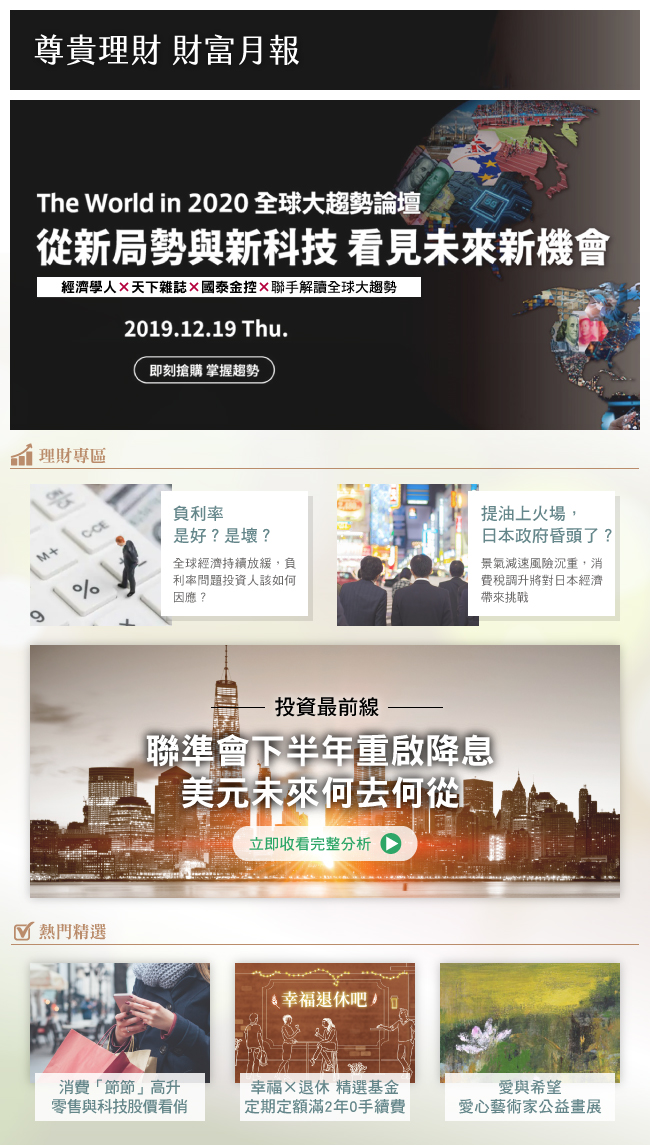
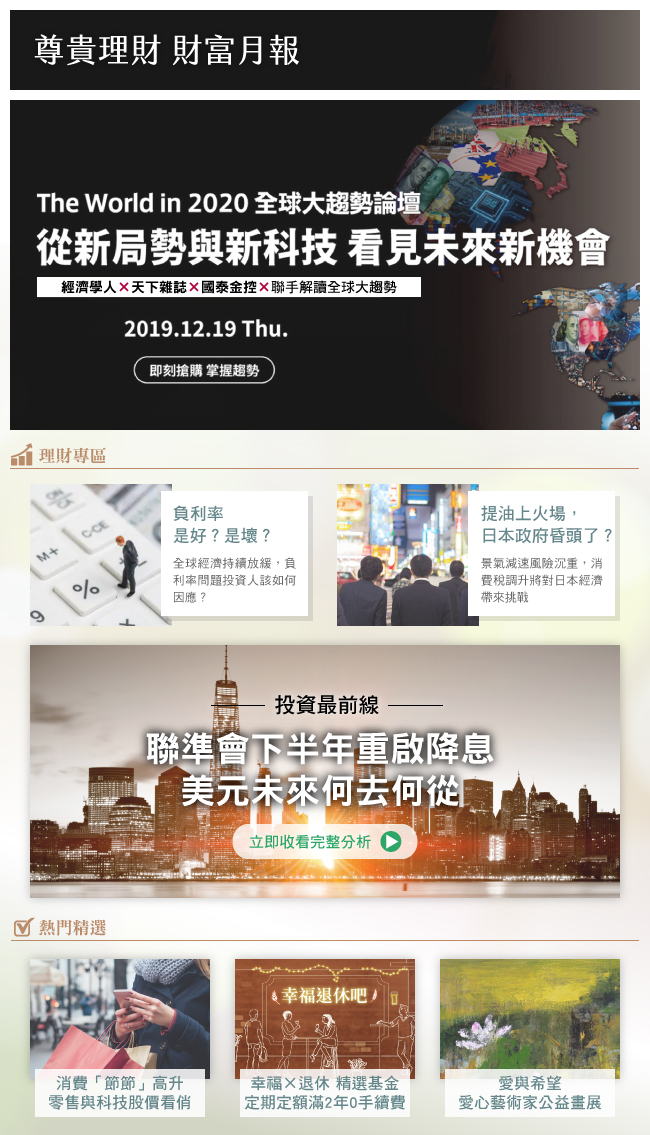
update

diff --git a/monthly-report-201911/index.html b/monthly-report-201911/index.html
@@ -24,7 +24,7 @@
 </style>
 
 <body>
-<p style="display:none;font-size:0;max-height:0;width:0;line-height:0;mso-hide:all">The World in 2020全球大趨勢論壇，2019年列強激烈爭鬥，下一年將走向何方？ | 負利率是好？是壞？ | 提油上火場，日本政府昏頭了嗎？ |【投資最前線】聯準會下半年重啟降息，美元未來何去何從？ | 幸福退休，定期定額兩年$0手續費</p>
+<p style="display:none;font-size:0;max-height:0;width:0;line-height:0;mso-hide:all">The World in 2020全球大趨勢論壇，2019年列強激烈爭鬥，下一年將走向何方？ | 負利率是好？是壞？ | 提油上火場，日本政府昏頭了嗎？ | 【投資最前線】聯準會下半年重啟降息，美元未來何去何從？ | 幸福退休，定期定額兩年$0手續費</p>
 <table width="650" border="0" align="center" cellpadding="10" cellspacing="0">
   <tr>
     <td align="center"><a href="#" target="_blank" class="link_text" style="font-size:14px;">※ 若是您無法正常瀏覽，請點選這裡，直接到網站上讀取</a></td>
@@ -105,13 +105,13 @@
 </table>
 
 <map name="Map">
-  <area shape="rect" coords="10,99,640,430" href="http://bit.ly/2Npn7mp?CUB_SRC=EDM&CUB_CHL1=BAN&CUB_CHL2=01&MA_TK=WS012&CUB_DT=20191110" target="_blank" alt="The World in 2020 全球大趨勢論壇">
-  <area shape="rect" coords="30,484,314,627" href="https://www.cathaybk.com.tw/cathaybk/promo/edm/wealth/product/201911/Wealth01m/index.html?CUB_SRC=EDM&CUB_CHL1=BAN&CUB_CHL2=01&MA_TK=WS012&CUB_DT=20191110" target="_blank" alt="負利率是好？是壞？">
-  <area shape="rect" coords="335,484,621,628" href="https://www.cathaybk.com.tw/cathaybk/promo/edm/wealth/product/201911/Wealth02m/index.html?CUB_SRC=EDM&CUB_CHL1=BAN&CUB_CHL2=01&MA_TK=WS012&CUB_DT=20191110" target="_blank" alt="提油上火場 日本政府昏頭了嗎？">
-  <area shape="rect" coords="28,645,620,900" href="https://youtu.be/0VTlpRxDavI?CUB_SRC=EDM&CUB_CHL1=BAN&CUB_CHL2=01&MA_TK=WS012&CUB_DT=20191110" target="_blank" alt="--投資最前線--聯準會下半年重啟降息，美元未來何去何從">
-  <area shape="rect" coords="29,963,210,1123" href="https://www.cathaybk.com.tw/cathaybk/promo/event/fund/cathayfund/article-pages/market/qa119.html?CUB_SRC=EDM&CUB_CHL1=BAN&CUB_CHL2=01&MA_TK=WS012&CUB_DT=20191110" target="_blank" alt="消費「節節」高升，零售與科技股價看俏">
-  <area shape="rect" coords="235,962,416,1123" href="https://www.cathaybk.com.tw/cathaybk/promo/event/content/financial/Best_Arranged_Retirement/discount/index.html?CUB_SRC=EDM&CUB_CHL1=BAN&CUB_CHL2=01&MA_TK=WS012&CUB_DT=20191110" target="_blank" alt="幸福X退休，精選基金優惠 定期定額滿2年$0手續費">
-  <area shape="rect" coords="439,963,621,1121" href="https://fund.cathaybk.org.tw/Art/News?CUB_SRC=EDM&CUB_CHL1=BAN&CUB_CHL2=01&MA_TK=WS012&CUB_DT=20191110" target="_blank" alt="愛與希望─愛心藝術家公益畫展">
+  <area shape="rect" coords="10,100,641,434" href="http://bit.ly/2Npn7mp?CUB_SRC=EDM&CUB_CHL1=BAN&CUB_CHL2=01&MA_TK=WS012&CUB_DT=20191110" target="_blank" alt="The World in 2020 全球大趨勢論壇">
+  <area shape="rect" coords="30,488,314,631" href="https://www.cathaybk.com.tw/cathaybk/promo/edm/wealth/product/201911/Wealth01m/index.html?CUB_SRC=EDM&CUB_CHL1=BAN&CUB_CHL2=01&MA_TK=WS012&CUB_DT=20191110" target="_blank" alt="負利率是好？是壞？">
+  <area shape="rect" coords="335,488,621,632" href="https://www.cathaybk.com.tw/cathaybk/promo/edm/wealth/product/201911/Wealth02m/index.html?CUB_SRC=EDM&CUB_CHL1=BAN&CUB_CHL2=01&MA_TK=WS012&CUB_DT=20191110" target="_blank" alt="提油上火場 日本政府昏頭了嗎？">
+  <area shape="rect" coords="28,651,620,906" href="https://youtu.be/0VTlpRxDavI?CUB_SRC=EDM&CUB_CHL1=BAN&CUB_CHL2=01&MA_TK=WS012&CUB_DT=20191110" target="_blank" alt="--投資最前線--聯準會下半年重啟降息，美元未來何去何從">
+  <area shape="rect" coords="29,967,210,1127" href="https://www.cathaybk.com.tw/cathaybk/promo/event/fund/cathayfund/article-pages/market/qa119.html?CUB_SRC=EDM&CUB_CHL1=BAN&CUB_CHL2=01&MA_TK=WS012&CUB_DT=20191110" target="_blank" alt="消費「節節」高升，零售與科技股價看俏">
+  <area shape="rect" coords="235,967,416,1128" href="https://www.cathaybk.com.tw/cathaybk/promo/event/content/financial/Best_Arranged_Retirement/discount/index.html?CUB_SRC=EDM&CUB_CHL1=BAN&CUB_CHL2=01&MA_TK=WS012&CUB_DT=20191110" target="_blank" alt="幸福X退休，精選基金優惠 定期定額滿2年$0手續費">
+  <area shape="rect" coords="439,968,621,1126" href="https://fund.cathaybk.org.tw/Art/News?CUB_SRC=EDM&CUB_CHL1=BAN&CUB_CHL2=01&MA_TK=WS012&CUB_DT=20191110" target="_blank" alt="愛與希望─愛心藝術家公益畫展">
 </map>
 <map name="Map2">
   <area shape="circle" coords="27,24,21" href="https://www.facebook.com/cathayunitedbank?CUB_SRC=EDM&CUB_CHL1=BAN&CUB_CHL2=01&MA_TK=WS012&CUB_DT=20191110" target="_blank" alt="國泰世華＊Enrich Your Life＊">

diff --git a/MR201911-html/201911_1/index.html b/MR201911-html/201911_1/index.html
@@ -133,7 +133,7 @@ div.text_in:after {
                          <p class="text_left_m10 s_18">首先，人們收入通常可以分成勞務所得與資本所得，一般受薪民眾的收入主要依靠勞務所得，但對有錢人而言，非勞務收入卻是主要經濟來源。金融海嘯後，各國利率持續走低，甚至是負利率，但金融資產卻不停走揚，導致富人更富，窮人更窮的困境，帶動吉尼係數不斷走揚(圖四)。</p>
                          <div class="img">
                             <img src="img/201911_1_pic4.jpg">
-                           <p>註: 吉尼係數為衡量財富不均的指標,  數值越高表示情況越嚴重<br>資料來源：Bloomberg</p>
+                           <p>註：吉尼係數為衡量財富不均的指標，數值越高表示情況越嚴重<br>資料來源：Bloomberg</p>
                     </div>
                   </div>
                 </div>
@@ -145,7 +145,7 @@ div.text_in:after {
                          <p class="text_left_m10 s_18">此時此刻，面對大環境依舊不明朗，與其思考創財富增值，不如先想辦法保值，減股加債，並酌量布局黃金，或許是最簡單且明確的方向。</p>
                          <div class="img">
                             <img src="img/201911_1_pic5.jpg">
-                           <p>註: 數值統計為近兩次衰退起點前後2年平均結果<br>資料來源：Bloomberg</p>
+                           <p>註：數值統計為近兩次衰退起點前後2年平均結果<br>資料來源：Bloomberg</p>
                     </div>
                   </div>
                 </div>

diff --git a/MR201911-html/201911_2/index.html b/MR201911-html/201911_2/index.html
@@ -127,7 +127,7 @@ div.text_in:after {
                        <p class="text_left_m10 s_18">面對消費稅加重景氣風險，日本央行進一步放寬貨幣政策的動作，則有助減緩日圓強度，提供匯價波動走貶契機。在此之下，不管你是11月想賞楓，或明年想要參加東京奧運，請好好<strong>把握短線日本央行加大寬鬆的買進機會</strong>。或許，當你在日本享受美食時，便能多點份生魚片了。</p>
 <div class="img">
                             <img src="img/201911_2_pic3.jpg">
-                            <p>註：日資料, 2013年以來VIX指數高於26且單日漲幅>10%時, 日圓匯率表現<br>資料來源：Bloomberg，國泰世華銀行投研團隊</p>
+                            <p>註：日資料，2013年以來VIX指數高於26且單日漲幅>10%時，日圓匯率表現<br>資料來源：Bloomberg，國泰世華銀行投研團隊</p>
                     </div>
                   </div>
                 </div>
